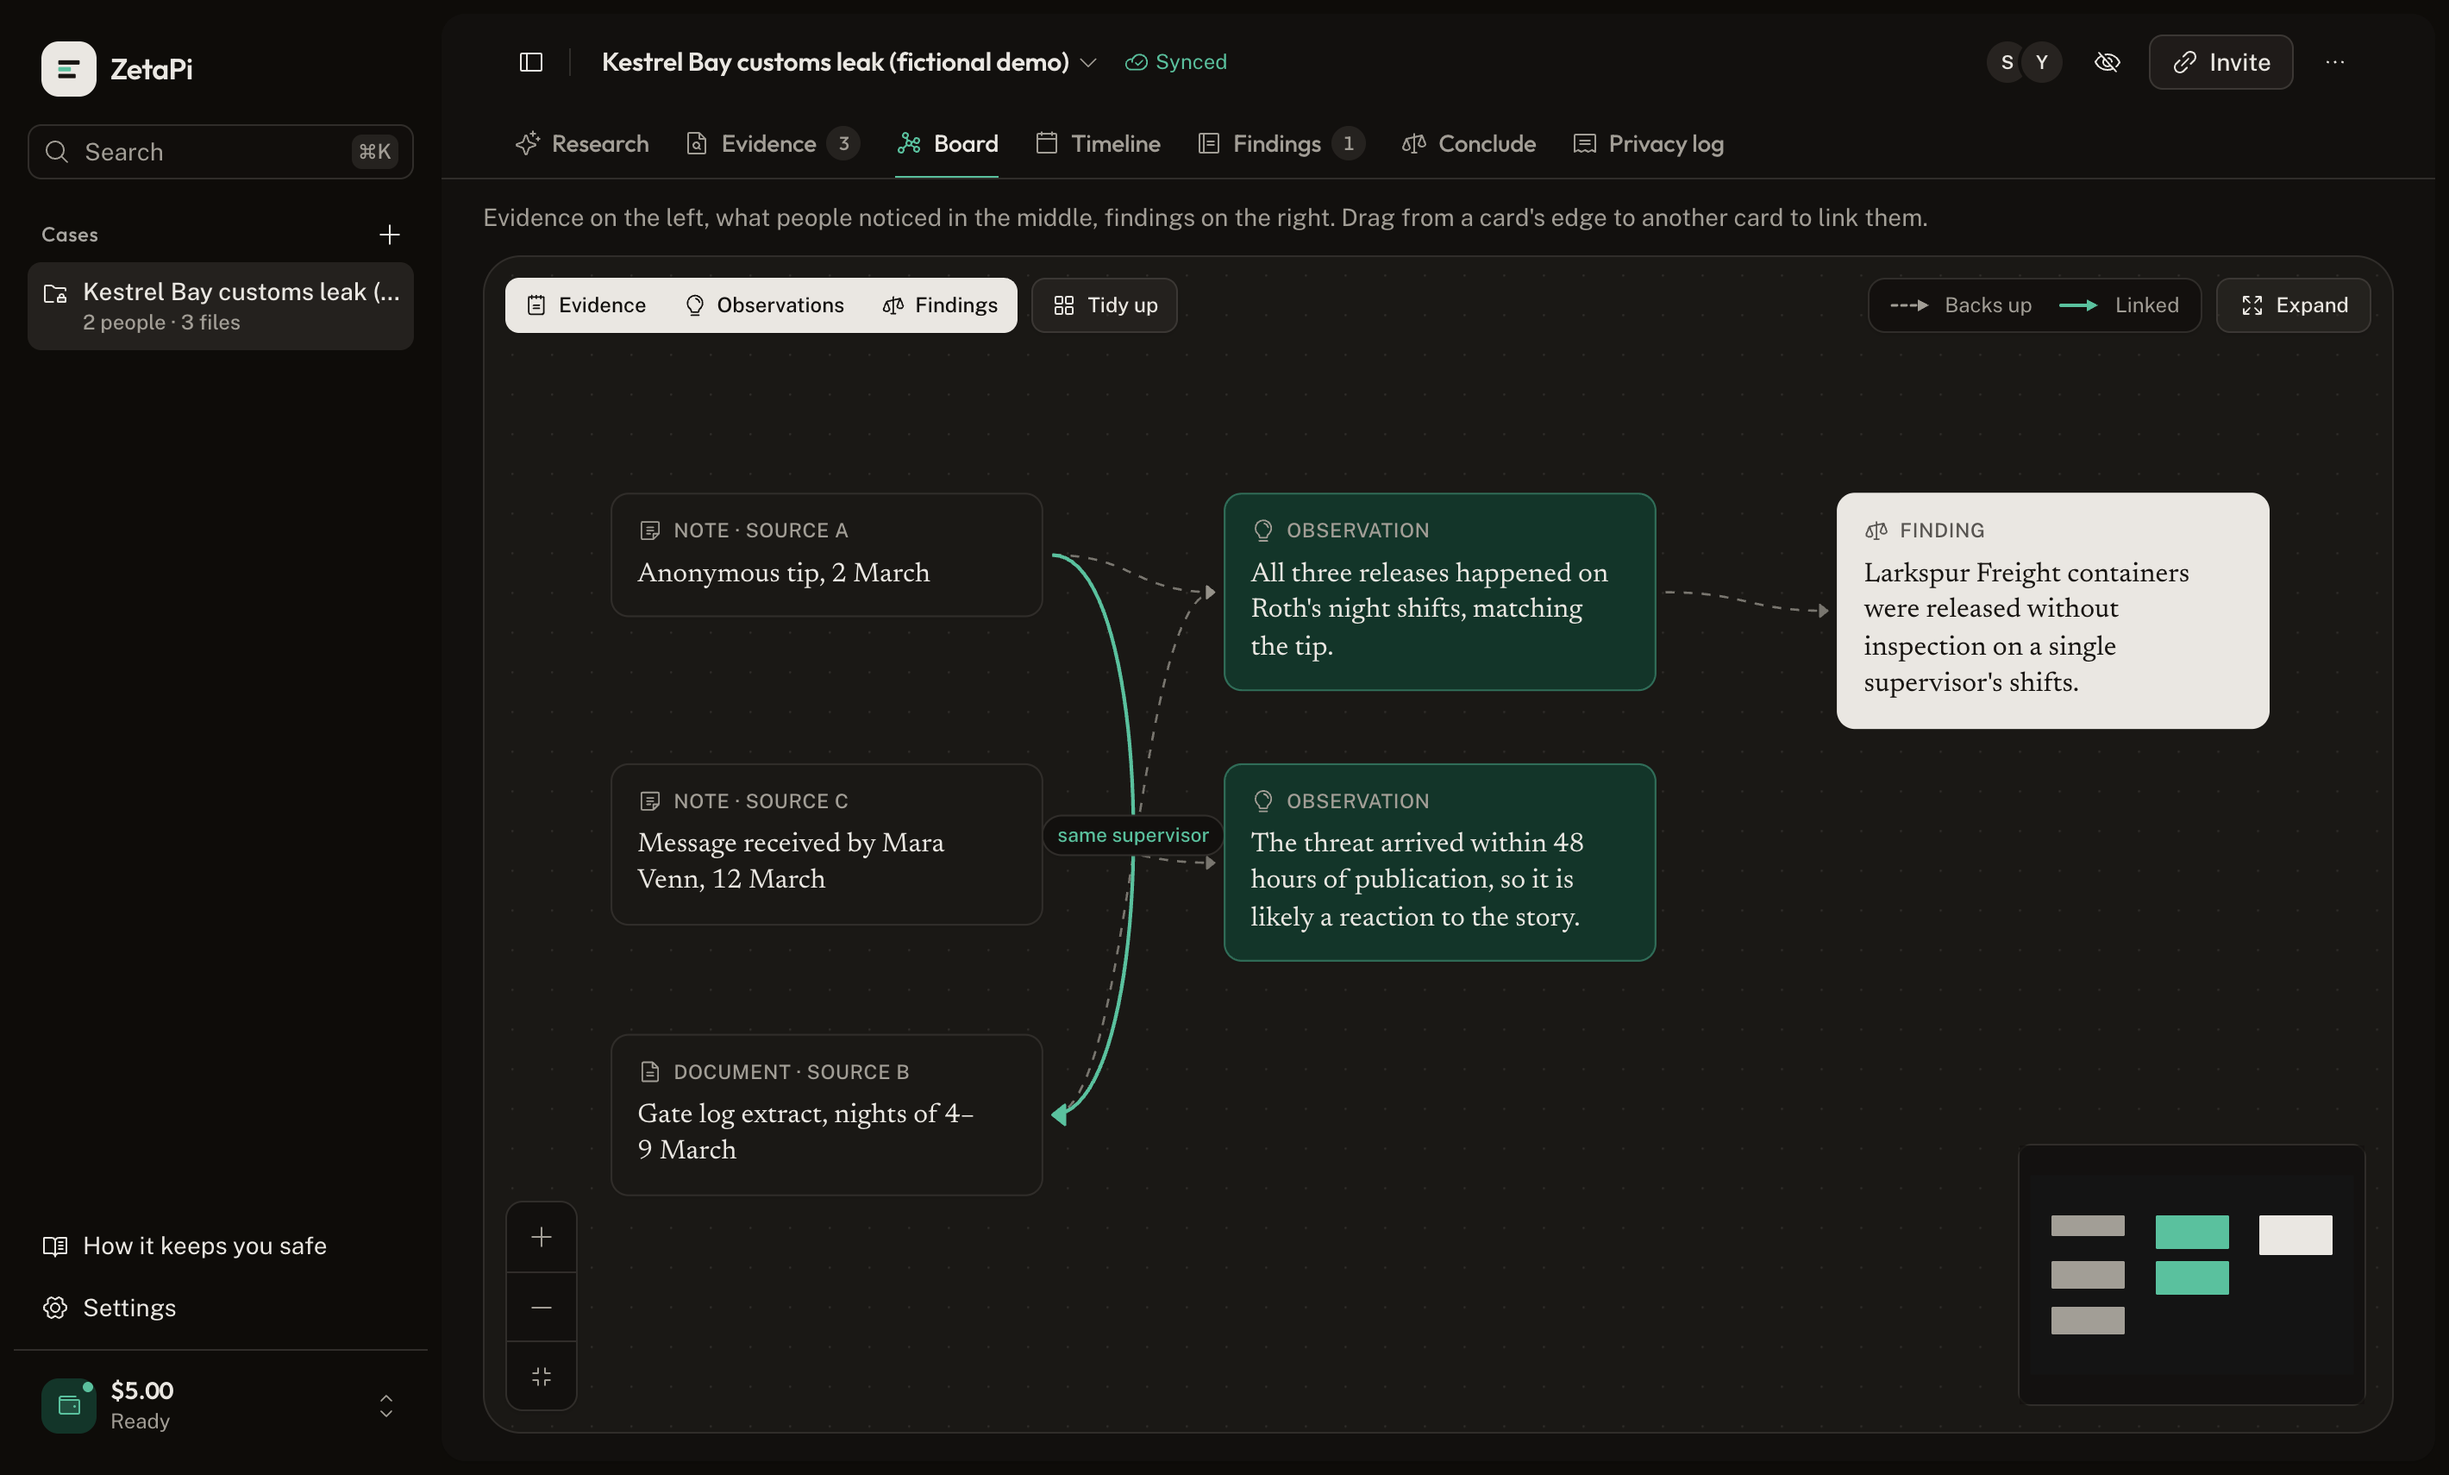
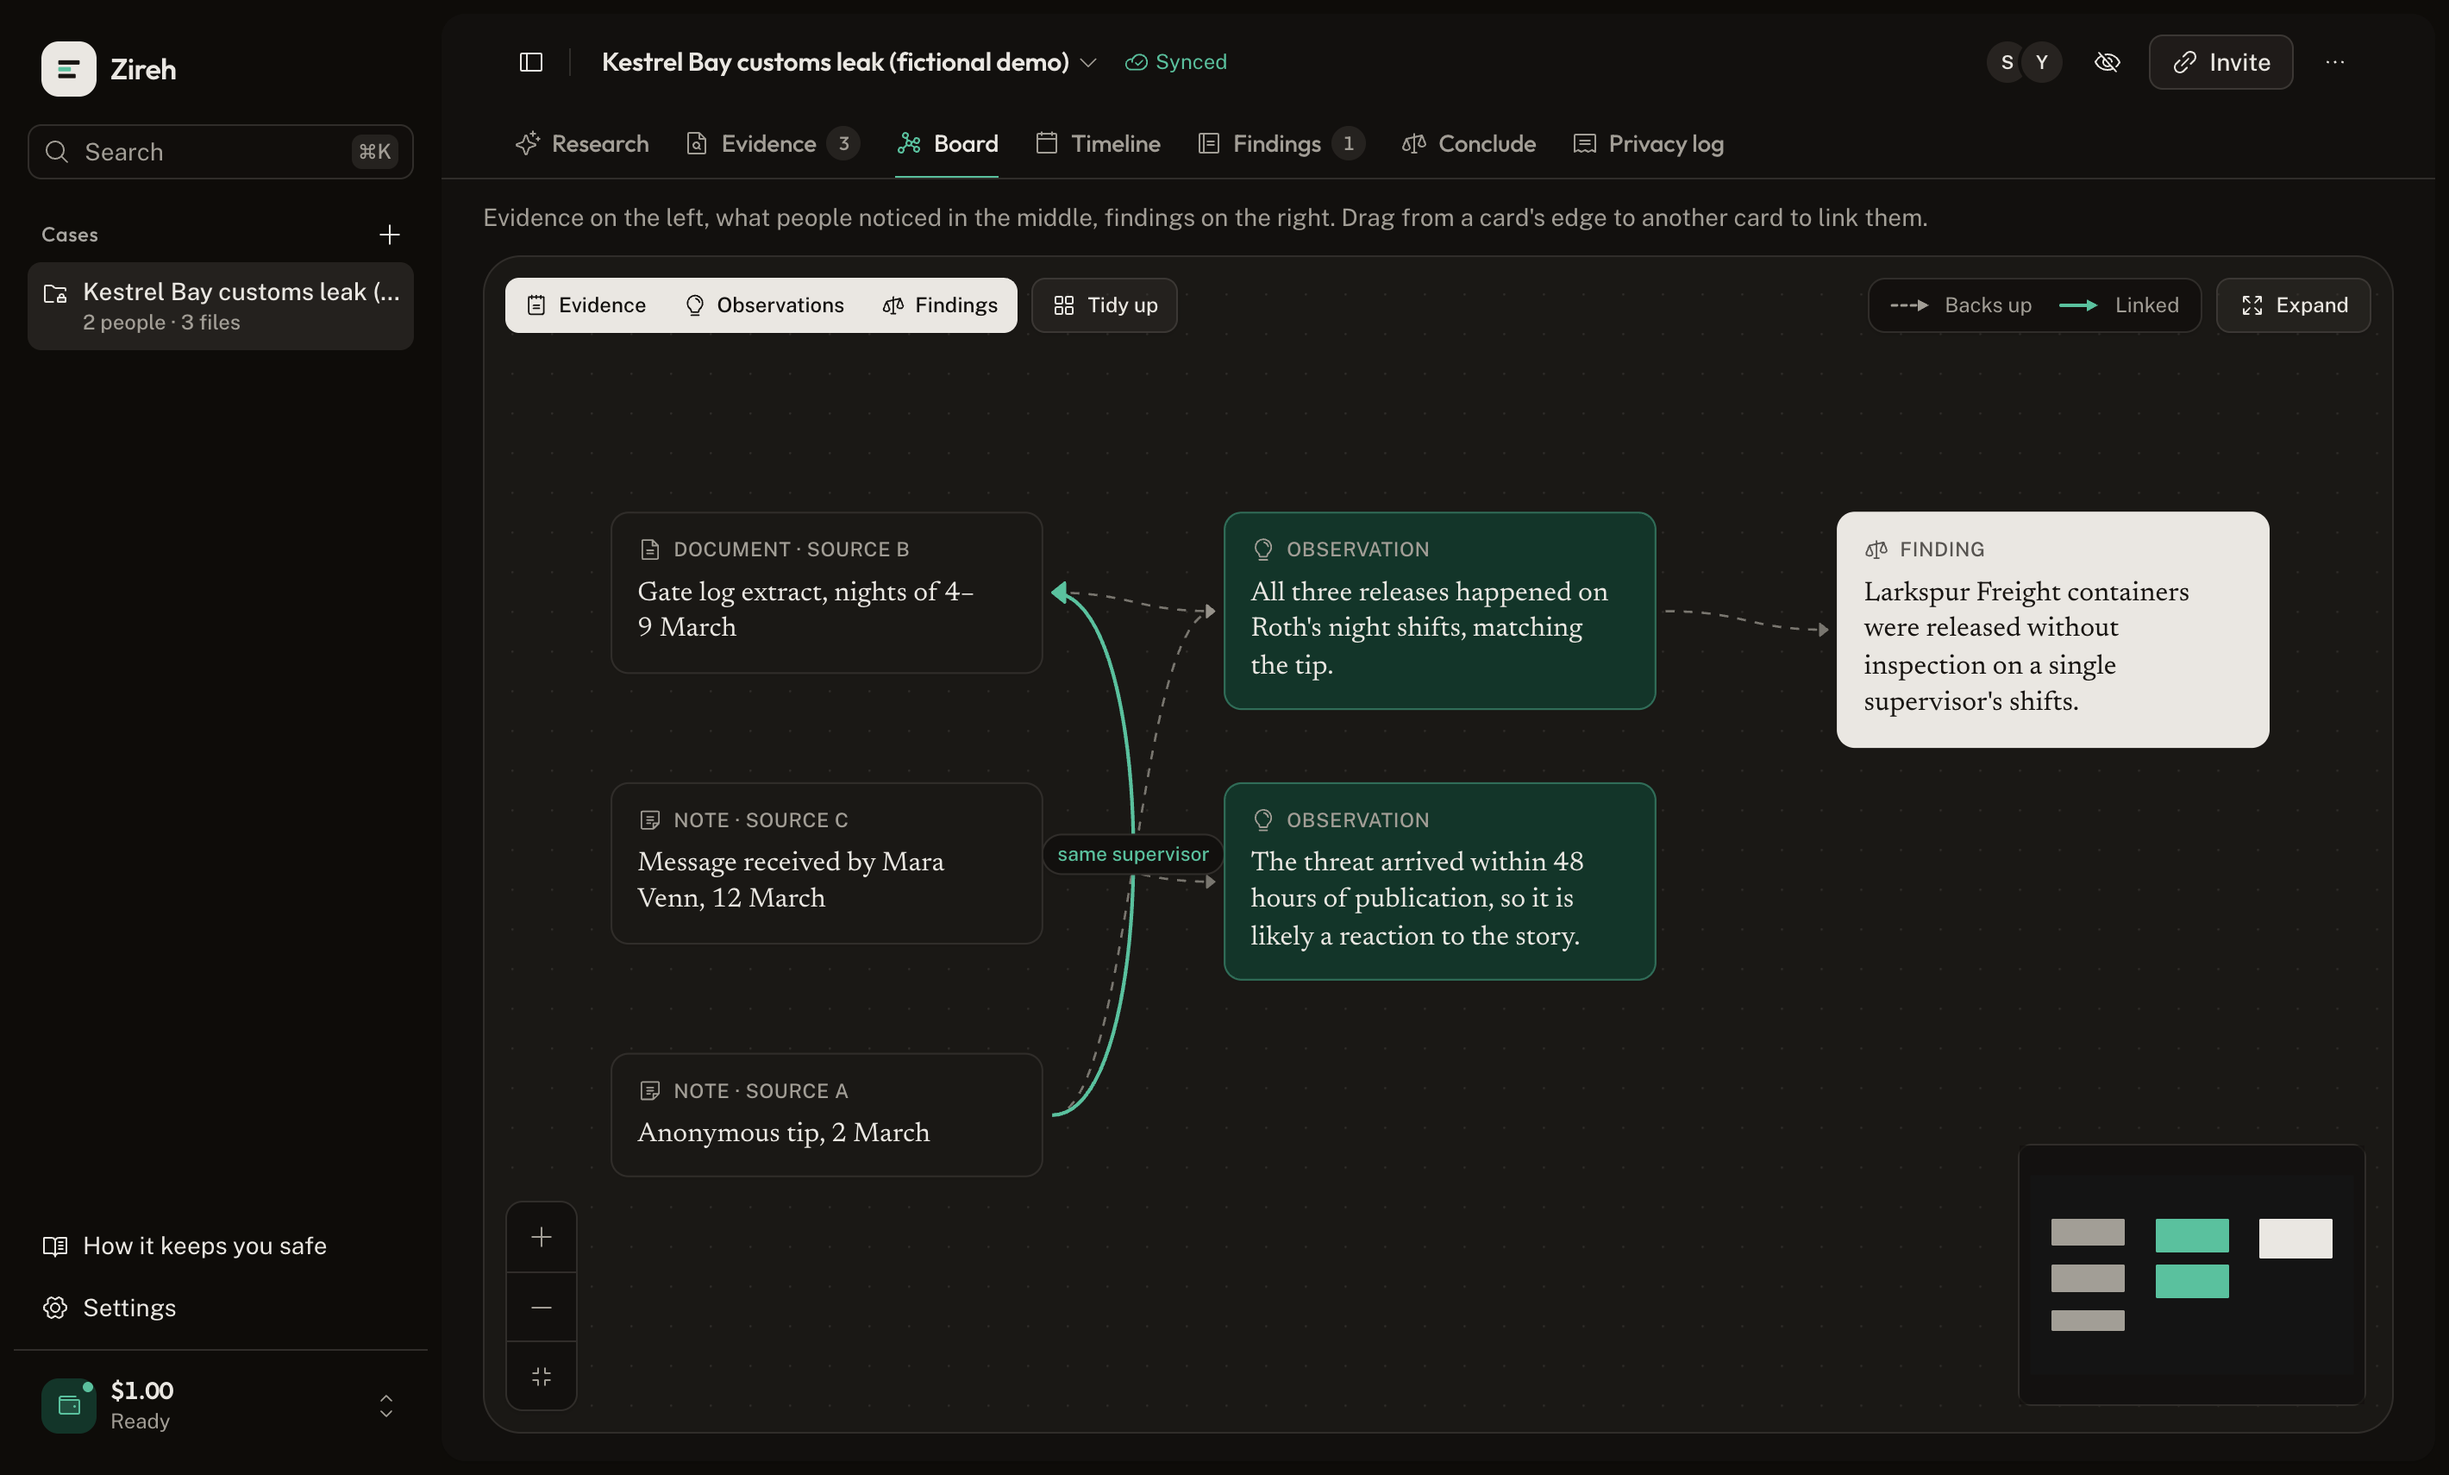
Tidy names across the app, docs, packages and deploy files
The README screenshots are retaken to match.

diff --git a/app/src/components/BackupDialog.tsx b/app/src/components/BackupDialog.tsx
@@ -67,7 +67,7 @@ export function BackupDialog({ caseId, onClose, onImported }: { caseId?: string;
             <label className="flex cursor-pointer items-center gap-3 rounded-lg border border-dashed p-4 text-sm hover:border-ring/60">
               <FileUp className="size-5 text-muted-foreground" />
               <span className="flex-1 truncate">{file ? file.name : "Choose a .zireh backup file"}</span>
-              <input type="file" required accept=".zireh,application/json" className="sr-only" onChange={(event) => setFile(event.target.files?.[0])} />
+              <input type="file" required accept=".zireh,.zireh,application/json" className="sr-only" onChange={(event) => setFile(event.target.files?.[0])} />
             </label>
           )}
           <div className="grid gap-1.5">

diff --git a/app/src/persistence.ts b/app/src/persistence.ts
@@ -21,7 +21,8 @@ export interface WorkspaceData {
 }
 export interface StoredRecord { readonly caseId: string; readonly collection: CollectionName; readonly record: { id: string }; readonly envelope?: Envelope; readonly echoPending?: boolean; readonly verified?: boolean }
 /**
- * Everything this browser keeps, in one IndexedDB object store ("zireh-records" → "data"), by key:
+ * Everything this browser keeps, in one IndexedDB object store ("zireh-records" → "data"), by key.
+ * Storage names keep the project's earlier name so data saved before the rename stays readable:
  *
  *   workspace:<case>                          keys, sync position and status for one case
  *   record:<case>:<collection>:<id>           one decrypted record plus its sealed envelope

diff --git a/app/src/engine/stores.ts b/app/src/engine/stores.ts
@@ -13,6 +13,7 @@ export function memoryStorage(): SyncStorage {
   return { getItem: (key) => items.get(key) ?? null, setItem: (key, value) => void items.set(key, value) };
 }
 
+// The earlier project name, kept so coins saved before the rename are still found.
 const MONEY_KEY = "zireh:money:v1";
 
 /**
